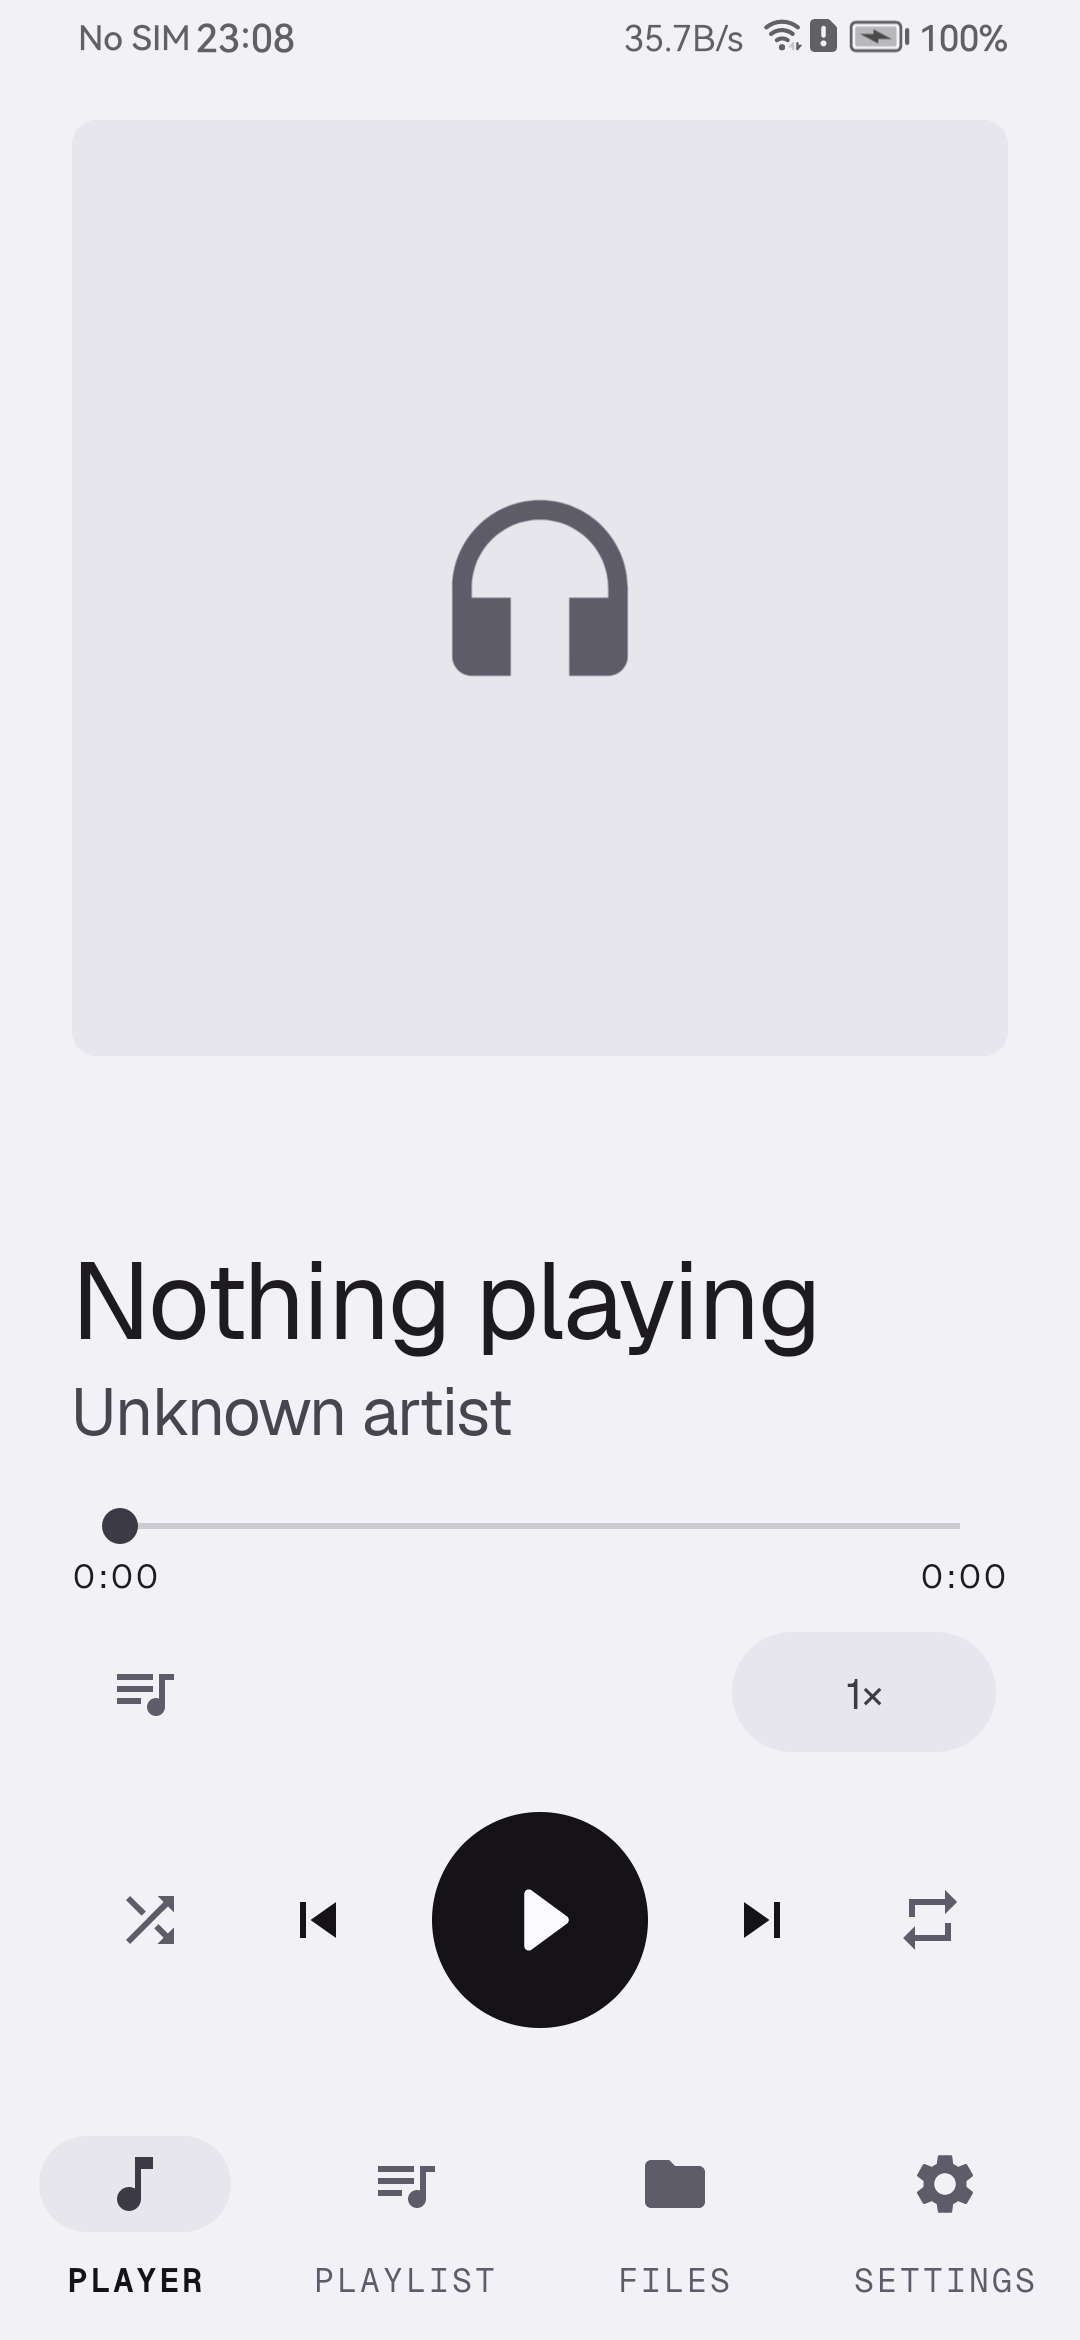
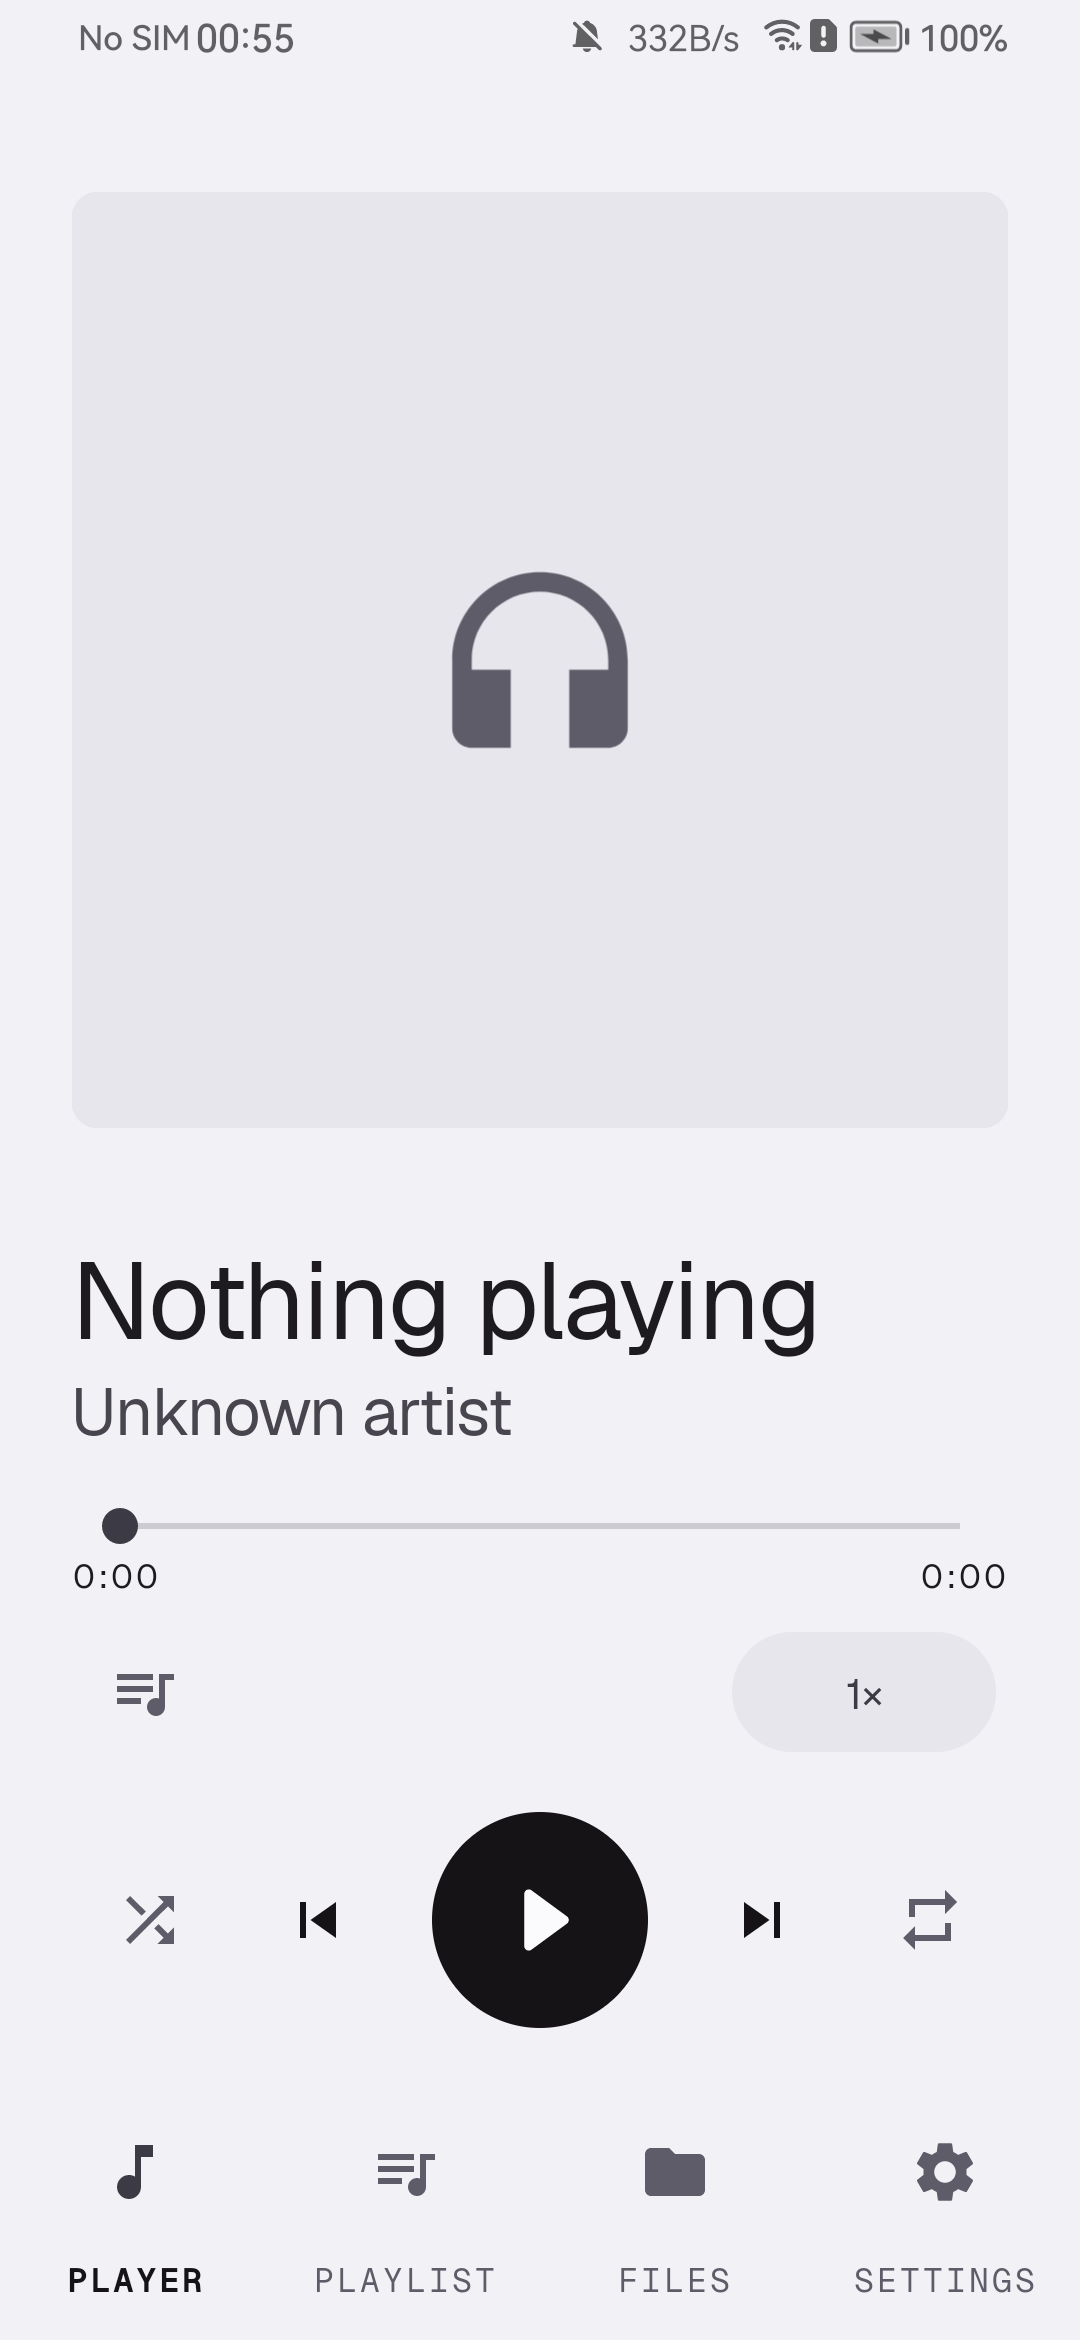
push

diff --git a/app/src/main/java/com/audiocat/ui/files/FilesFragment.kt b/app/src/main/java/com/audiocat/ui/files/FilesFragment.kt
@@ -10,6 +10,7 @@ import androidx.lifecycle.lifecycleScope
 import androidx.lifecycle.repeatOnLifecycle
 import androidx.recyclerview.widget.LinearLayoutManager
 import com.audiocat.AudioCatApp
+import com.audiocat.MainActivity
 import com.audiocat.R
 import com.audiocat.data.db.FolderMode
 import com.audiocat.data.db.Track
@@ -49,10 +50,18 @@ class FilesFragment : Fragment(R.layout.fragment_files) {
     /** Every row from the database, before the chip filter is applied. */
     private var allRows: List<FileRow> = emptyList()
 
-    private var filter = FilesFilter.ALL
-
-    /** Id of the chip matching [filter], kept so the group always has a pick. */
-    private var activeChipId = View.NO_ID
+    /**
+     * Multi-select chip state. "All" is the empty selection: it is reset to
+     * checked whenever no specific chip is on, and any specific chip turning
+     * on switches "All" off. Listed/Unlisted and Audio/Video are exclusive.
+     * The chips themselves are the single source of truth for the filter.
+     */
+    private var suppressChipEvents = false
+    private var chipAll: Chip? = null
+    private var chipListed: Chip? = null
+    private var chipUnlisted: Chip? = null
+    private var chipAudio: Chip? = null
+    private var chipVideo: Chip? = null
 
     private var selectionMode = false
     private val selectedPaths = linkedSetOf<String>()
@@ -85,6 +94,7 @@ class FilesFragment : Fragment(R.layout.fragment_files) {
             onRowClick = ::onRowClicked,
             onRowLongClick = ::onRowLongPressed,
             onMoreClick = ::showActions,
+            onPlayClick = ::onPlayPressed,
         )
         views.filesList.layoutManager = LinearLayoutManager(requireContext())
         views.filesList.adapter = adapter
@@ -127,45 +137,88 @@ class FilesFragment : Fragment(R.layout.fragment_files) {
     // ---------------------------------------------------------------------
 
     private fun buildFilters(views: FragmentFilesBinding) {
-        var initialChipId = View.NO_ID
-        FilesFilter.entries.forEach { option ->
-            val chip = Chip(requireContext()).apply {
-                id = View.generateViewId()
-                text = option.label
-                isCheckable = true
-                // The group listener reads the filter back out of the tag.
-                tag = option
-            }
-            views.filterChips.addView(chip)
-            if (option == filter) initialChipId = chip.id
-        }
-        views.filterChips.setOnCheckedStateChangeListener { group, checkedIds ->
-            val checkedId = checkedIds.firstOrNull()
-            if (checkedId == null) {
-                // Tapping the active chip clears it, but a filter is always
-                // active, so put the selection back.
-                group.check(activeChipId)
-            } else {
-                activeChipId = checkedId
-                val selected = group.findViewById<Chip>(checkedId)?.tag as? FilesFilter
-                    ?: return@setOnCheckedStateChangeListener
-                filter = selected
-                submitFiltered()
-            }
-        }
-        activeChipId = initialChipId
-        views.filterChips.check(initialChipId)
+        // "All" first so it is the initial (and fallback) selection. Every
+        // chip keeps its own check state; the rules below enforce the valid
+        // combinations: any specific chip turns All off, exclusivity holds
+        // within each pair, and an empty selection snaps back to All.
+        chipAll = addChip(views, FilesFilter.ALL).also { it.isChecked = true }
+        chipListed = addChip(views, FilesFilter.LISTED)
+        chipUnlisted = addChip(views, FilesFilter.UNLISTED)
+        chipAudio = addChip(views, FilesFilter.AUDIO)
+        chipVideo = addChip(views, FilesFilter.VIDEO)
     }
 
-    /** Applies the active chip in a single pass and updates the empty state. */
+    private fun addChip(views: FragmentFilesBinding, kind: FilesFilter): Chip =
+        Chip(requireContext()).apply {
+            id = View.generateViewId()
+            text = kind.label
+            isCheckable = true
+            setOnCheckedChangeListener { _, isChecked -> onFilterChipChanged(kind, isChecked) }
+            views.filterChips.addView(this)
+        }
+
+    /** Enforces the valid chip combinations after any user toggle. */
+    private fun onFilterChipChanged(changed: FilesFilter, isChecked: Boolean) {
+        if (suppressChipEvents) return
+        suppressChipEvents = true
+        try {
+            if (changed == FilesFilter.ALL) {
+                // Selecting All clears every specific chip; unchecking All only
+                // matters if nothing specific is left (All is re-selected then).
+                if (isChecked) {
+                    chipListed?.isChecked = false
+                    chipUnlisted?.isChecked = false
+                    chipAudio?.isChecked = false
+                    chipVideo?.isChecked = false
+                }
+            } else {
+                // Any specific choice leaves the All state.
+                chipAll?.isChecked = false
+                if (isChecked) {
+                    // Exclusive pairs: picking one clears the other.
+                    when (changed) {
+                        FilesFilter.LISTED -> chipUnlisted?.isChecked = false
+                        FilesFilter.UNLISTED -> chipListed?.isChecked = false
+                        FilesFilter.AUDIO -> chipVideo?.isChecked = false
+                        FilesFilter.VIDEO -> chipAudio?.isChecked = false
+                        else -> Unit
+                    }
+                }
+            }
+            // A filter is always active: with no specific chip on, All returns.
+            if (chipAll?.isChecked != true && specificChecked().isEmpty()) {
+                chipAll?.isChecked = true
+            }
+        } finally {
+            suppressChipEvents = false
+        }
+        submitFiltered()
+    }
+
+    /** The currently on specific chip types, if any (Listed/Unlisted/Audio/Video). */
+    private fun specificChecked(): Set<FilesFilter> = buildSet {
+        if (chipListed?.isChecked == true) add(FilesFilter.LISTED)
+        if (chipUnlisted?.isChecked == true) add(FilesFilter.UNLISTED)
+        if (chipAudio?.isChecked == true) add(FilesFilter.AUDIO)
+        if (chipVideo?.isChecked == true) add(FilesFilter.VIDEO)
+    }
+
+    /** Applies the selected chips in a single pass and updates the empty state. */
     private fun submitFiltered() {
         val views = binding ?: return
-        val rows = when (filter) {
-            FilesFilter.ALL -> allRows
-            FilesFilter.LISTED -> allRows.filter { !it.track.unlisted }
-            FilesFilter.UNLISTED -> allRows.filter { it.track.unlisted }
-            FilesFilter.AUDIO -> allRows.filter { !it.track.isVideo }
-            FilesFilter.VIDEO -> allRows.filter { it.track.isVideo }
+        val active = specificChecked()
+        val rows = allRows.filter { row ->
+            val okListing = when {
+                FilesFilter.LISTED in active -> !row.track.unlisted
+                FilesFilter.UNLISTED in active -> row.track.unlisted
+                else -> true
+            }
+            val okKind = when {
+                FilesFilter.AUDIO in active -> !row.track.isVideo
+                FilesFilter.VIDEO in active -> row.track.isVideo
+                else -> true
+            }
+            okListing && okKind
         }
         adapter.submitList(rows)
         views.filesEmpty.isVisible = rows.isEmpty()
@@ -198,6 +251,20 @@ class FilesFragment : Fragment(R.layout.fragment_files) {
         if (selectionMode) toggleSelection(row) else showActions(row)
     }
 
+    /**
+     * Quick-play from the Files tab: plays the currently filtered list from
+     * [row] onward, matching the tap-to-play behaviour everywhere else.
+     */
+    private fun onPlayPressed(row: FileRow) {
+        val rows = adapter.currentList
+        val start = rows.indexOfFirst { it.path == row.path }.coerceAtLeast(0)
+        val tracks = rows.map { it.track }
+        if (tracks.isEmpty()) return
+        val activity = requireActivity() as MainActivity
+        activity.player.playTracks(tracks, start)
+        activity.showPlayer()
+    }
+
     private fun onRowLongPressed(row: FileRow) {
         if (selectionMode) {
             toggleSelection(row)
@@ -223,8 +290,8 @@ class FilesFragment : Fragment(R.layout.fragment_files) {
         val views = binding ?: return
         views.selectionBar.isVisible = selectionMode
         views.selectionCount.text = getString(R.string.files_selected, selectedPaths.size)
-        // The action bar occupies the FAB's corner while it is up.
-        views.fabAddFolder.isVisible = !selectionMode
+        // The "add folder" FAB is hidden (see its layout); it only ever toggled
+        // visibility around the selection bar, whose logic is kept for reuse.
         adapter.render(selectionMode, selectedPaths.toSet())
     }
 

diff --git a/app/src/main/java/com/audiocat/MainActivity.kt b/app/src/main/java/com/audiocat/MainActivity.kt
@@ -34,6 +34,7 @@ class MainActivity : AppCompatActivity() {
 
     private lateinit var binding: ActivityMainBinding
     private var initialInsetsApplied = false
+    private var firstDrawAttempts = 0
 
     /** Shared with every page; a media controller connects to the service. */
     val player: PlayerConnection by lazy { PlayerConnection(this) }
@@ -59,6 +60,7 @@ class MainActivity : AppCompatActivity() {
 
         setUpPager()
         setUpBottomNav()
+        binding.pager.setCurrentItem(initialPage(), false)
         requestStoragePermission()
         warmUpPages()
     }
@@ -74,13 +76,7 @@ class MainActivity : AppCompatActivity() {
     private fun setUpWindowInsets() {
         ViewCompat.setOnApplyWindowInsetsListener(binding.root) { view, insets ->
             val bars = insets.getInsets(WindowInsetsCompat.Type.systemBars())
-            val changed = view.paddingLeft != bars.left ||
-                view.paddingTop != bars.top ||
-                view.paddingRight != bars.right ||
-                view.paddingBottom != bars.bottom
-            if (changed) {
-                view.setPadding(bars.left, bars.top, bars.right, bars.bottom)
-            }
+            applyRootPadding(bars.left, bars.top, bars.right, bars.bottom)
             initialInsetsApplied = true
             insets
         }
@@ -88,12 +84,39 @@ class MainActivity : AppCompatActivity() {
         binding.root.viewTreeObserver.addOnPreDrawListener(
             object : ViewTreeObserver.OnPreDrawListener {
                 override fun onPreDraw(): Boolean {
-                    if (!initialInsetsApplied) return false
+                    if (!initialInsetsApplied) {
+                        val insets = ViewCompat.getRootWindowInsets(binding.root)
+                        if (insets != null) {
+                            val bars = insets.getInsets(WindowInsetsCompat.Type.systemBars())
+                            applyRootPadding(bars.left, bars.top, bars.right, bars.bottom)
+                            initialInsetsApplied = true
+                        } else {
+                            firstDrawAttempts += 1
+                            if (firstDrawAttempts < MAX_FIRST_DRAW_ATTEMPTS) {
+                                ViewCompat.requestApplyInsets(binding.root)
+                                return false
+                            }
+                            // Some Android 10 builds never dispatch the first insets pass.
+                            // Falling back to the current zero-padding state is better than
+                            // leaving the whole activity blank forever.
+                            initialInsetsApplied = true
+                        }
+                    }
                     binding.root.viewTreeObserver.removeOnPreDrawListener(this)
                     return true
                 }
             },
         )
+    }
+
+    private fun applyRootPadding(left: Int, top: Int, right: Int, bottom: Int) {
+        val changed = binding.root.paddingLeft != left ||
+            binding.root.paddingTop != top ||
+            binding.root.paddingRight != right ||
+            binding.root.paddingBottom != bottom
+        if (changed) {
+            binding.root.setPadding(left, top, right, bottom)
+        }
     }
 
     /**
@@ -215,6 +238,11 @@ class MainActivity : AppCompatActivity() {
         }
     }
 
+    private fun initialPage(): Int =
+        intent?.getIntExtra(EXTRA_INITIAL_PAGE, PAGE_PLAYER)
+            ?.coerceIn(PAGE_PLAYER, PAGE_SETTINGS)
+            ?: PAGE_PLAYER
+
     /** Page adapter for the four fixed tabs. */
     private inner class PagerAdapter : FragmentStateAdapter(this) {
 
@@ -234,5 +262,7 @@ class MainActivity : AppCompatActivity() {
         const val PAGE_PLAYLIST = 1
         const val PAGE_FILES = 2
         const val PAGE_SETTINGS = 3
+        const val EXTRA_INITIAL_PAGE = "initial_page"
+        const val MAX_FIRST_DRAW_ATTEMPTS = 4
     }
 }

diff --git a/app/src/main/java/com/audiocat/ui/files/FilesAdapter.kt b/app/src/main/java/com/audiocat/ui/files/FilesAdapter.kt
@@ -26,6 +26,7 @@ class FilesAdapter(
     private val onRowClick: (FileRow) -> Unit,
     private val onRowLongClick: (FileRow) -> Unit,
     private val onMoreClick: (FileRow) -> Unit,
+    private val onPlayClick: (FileRow) -> Unit,
 ) : ListAdapter<FileRow, FilesAdapter.RowHolder>(DIFF) {
 
     private var selectionMode = false
@@ -56,8 +57,10 @@ class FilesAdapter(
             binding.rowCheck.isVisible = selectionMode
             binding.rowCheck.isChecked = row.path in selectedPaths
             // Inside selection mode a tap already toggles the row, so the
-            // overflow menu would only get in the way.
+            // overflow menu and the quick-play triangle would only get in the
+            // way.
             binding.rowMore.isVisible = !selectionMode
+            binding.rowPlay.isVisible = !selectionMode
 
             val art = artworkOf(row)
             if (art == null) {
@@ -72,6 +75,7 @@ class FilesAdapter(
                 true
             }
             binding.rowMore.setOnClickListener { onMoreClick(row) }
+            binding.rowPlay.setOnClickListener { onPlayClick(row) }
         }
     }
 

diff --git a/README.md b/README.md
@@ -18,7 +18,7 @@ Audio Cat is a fully offline Android audio player whose purpose is to play the *
 |-------|----------|
 | ![Files tab](screenshots/files.png) | ![Settings tab](screenshots/settings.png) |
 
-*Screenshots taken on Honor 9X (Android 10), light theme, version 1.1.1.*
+*Screenshots taken on Honor 9X (Android 10), light theme, version 1.1.7.*
 
 </div>
 
